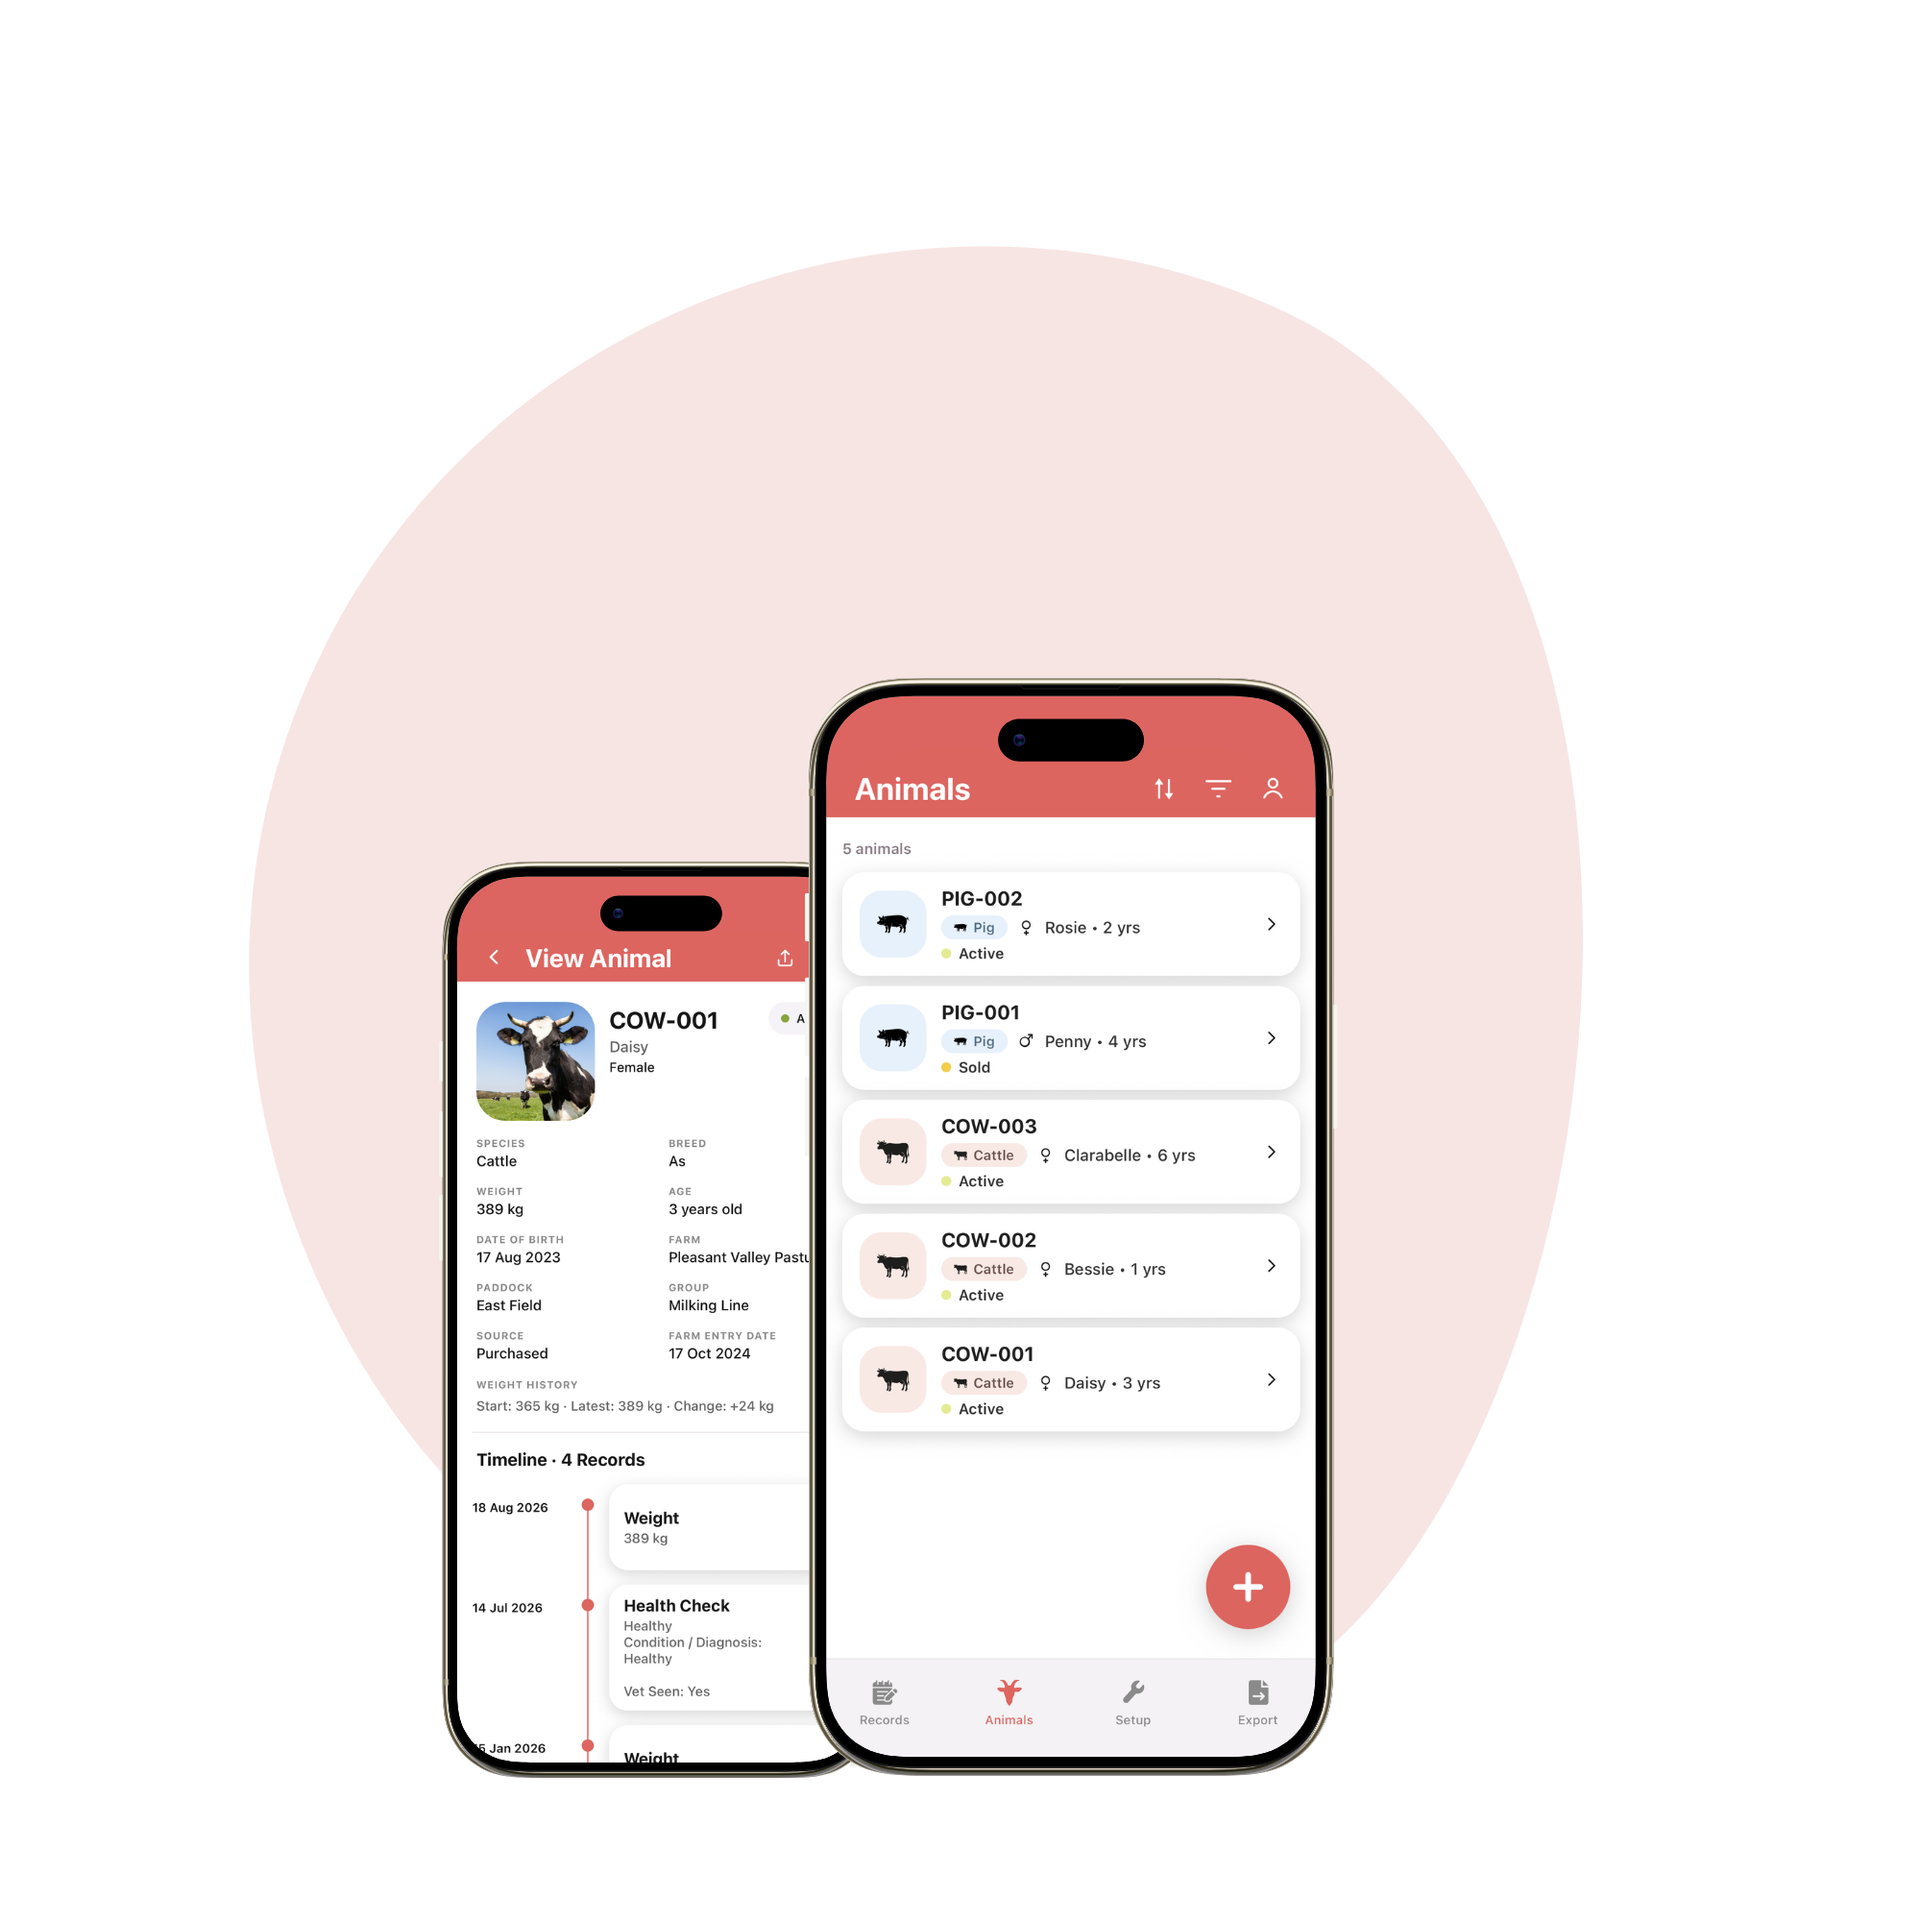
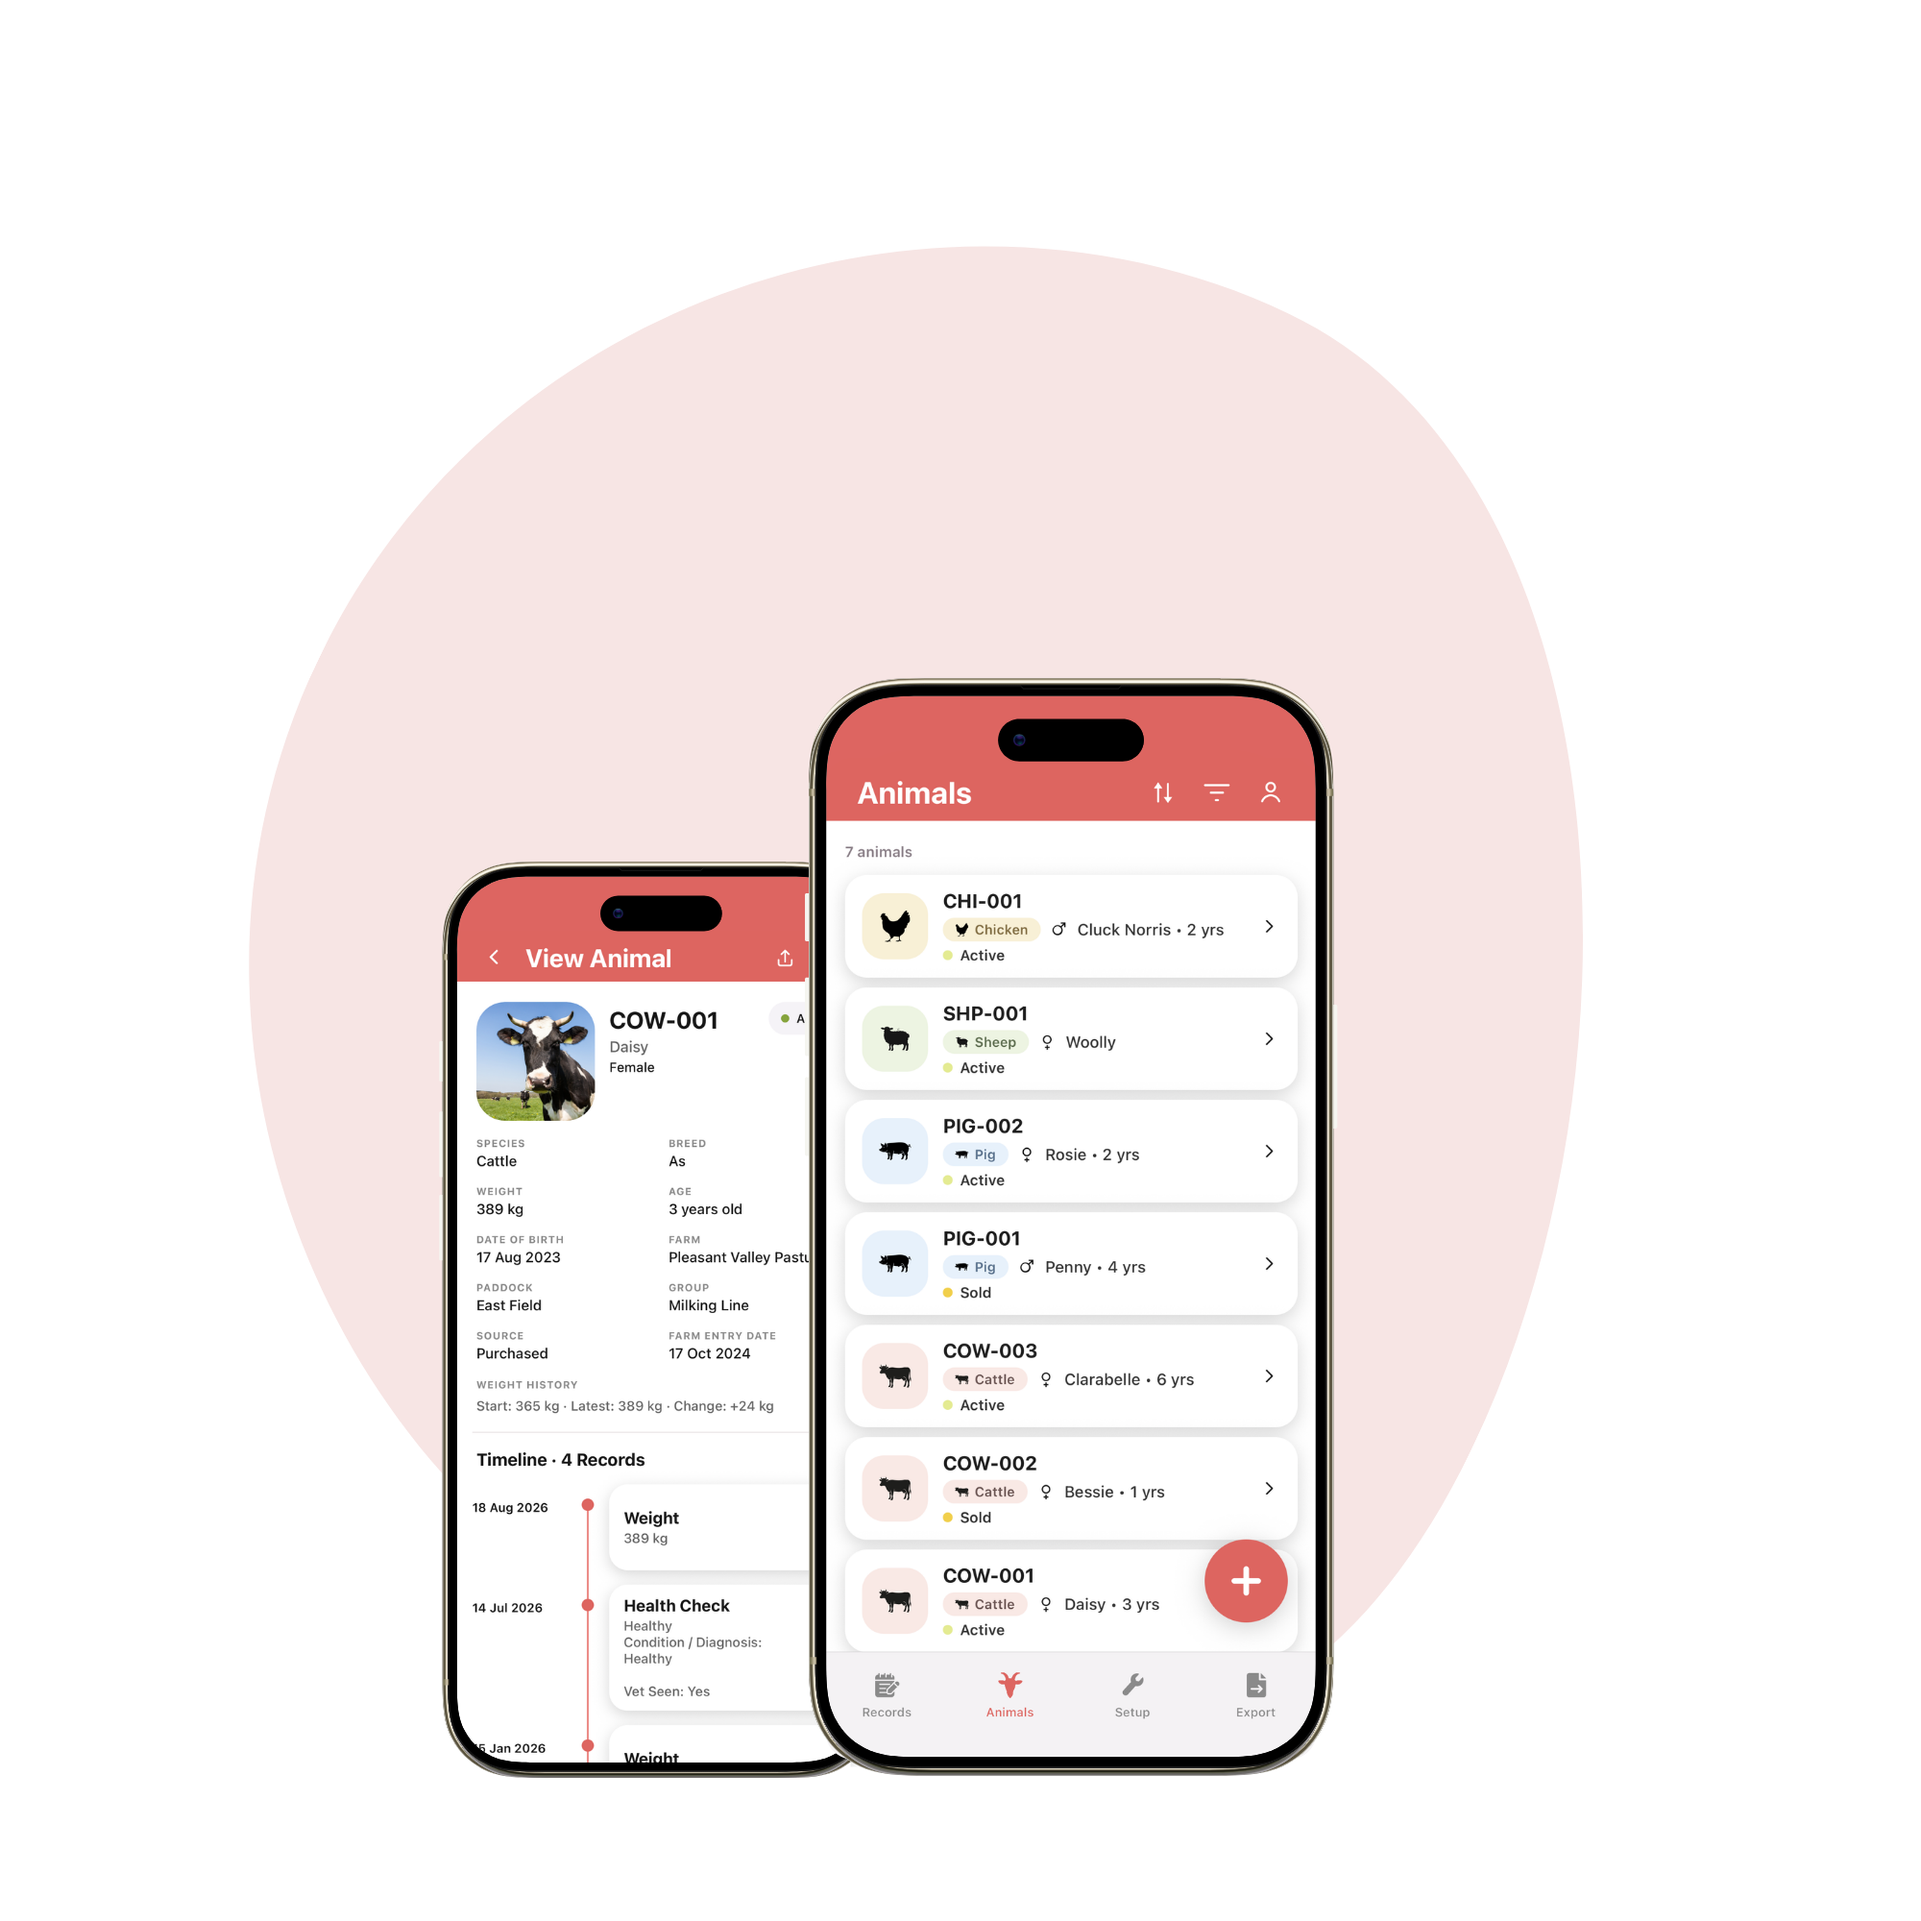
Update animals graphic; push story positions further out
Swap in the new multi-species animals artwork (?v=2). The animals copy
moves in closer (media column 800 -> 720), the records graphic and its
right-justified copy shift further right (bleed -280, column 800), and
the export graphic pushes hard left (bleed -440, column 660) with its
copy staying adjacent.

Changed region(s): [[0.434, 0.403, 0.682, 0.899], [0.589, 0.403, 0.682, 0.434], [0.651, 0.868, 0.682, 0.899]]

diff --git a/docs/styles.css b/docs/styles.css
@@ -433,7 +433,7 @@ h2,
    stays centred. */
 @media (min-width: 901px) {
   .feature-story-list > .feature-story-graphic:nth-child(1) {
-    grid-template-columns: minmax(320px, 800px) minmax(260px, 1fr);
+    grid-template-columns: minmax(320px, 720px) minmax(260px, 1fr);
   }
 
   .feature-story-list > .feature-story-graphic:nth-child(1) .feature-story-screen {
@@ -442,26 +442,25 @@ h2,
   }
 
   .feature-story-list > .feature-story-graphic:nth-child(2) {
-    grid-template-columns: minmax(260px, 1fr) minmax(320px, 880px);
+    grid-template-columns: minmax(260px, 1fr) minmax(320px, 800px);
   }
 
   .feature-story-list > .feature-story-graphic:nth-child(2) .feature-story-screen {
-    width: calc(100% + 200px);
-    margin-right: -200px;
+    width: calc(100% + 280px);
+    margin-right: -280px;
   }
 
   .feature-story-list > .feature-story-graphic:nth-child(2) .feature-story-copy {
     text-align: right;
   }
 
-  /* 0.85x the other stories' artwork. */
   .feature-story-list > .feature-story-graphic:nth-child(3) {
-    grid-template-columns: minmax(320px, 816px) minmax(260px, 1fr);
+    grid-template-columns: minmax(320px, 660px) minmax(260px, 1fr);
   }
 
   .feature-story-list > .feature-story-graphic:nth-child(3) .feature-story-screen {
-    width: calc(100% + 320px);
-    margin-left: -320px;
+    width: calc(100% + 440px);
+    margin-left: -440px;
   }
 }
 

diff --git a/docs/index.html b/docs/index.html
@@ -13,7 +13,7 @@
   <link rel="icon" type="image/png" sizes="96x96" href="./favicon-96x96.png?v=20260724" />
   <link rel="icon" type="image/png" sizes="192x192" href="./favicon-192x192.png?v=20260724" />
   <link rel="apple-touch-icon" sizes="180x180" href="./apple-touch-icon.png?v=20260724" />
-  <link rel="stylesheet" href="./styles.css?v=20260818l" />
+  <link rel="stylesheet" href="./styles.css?v=20260818m" />
 </head>
 <body>
   <header class="site-header">
@@ -97,7 +97,7 @@
       <section class="feature-story-list" id="features">
         <article class="feature-story feature-story-graphic">
           <figure class="feature-shot feature-story-screen">
-            <img class="feature-screen-image" src="./images/graphic-animals.png" alt="Animals list and View Animal screens in LivestockBook" loading="lazy" />
+            <img class="feature-screen-image" src="./images/graphic-animals.png?v=2" alt="Animals list and View Animal screens in LivestockBook" loading="lazy" />
           </figure>
           <div class="feature-story-copy">
             <p class="eyebrow">Animals</p>
